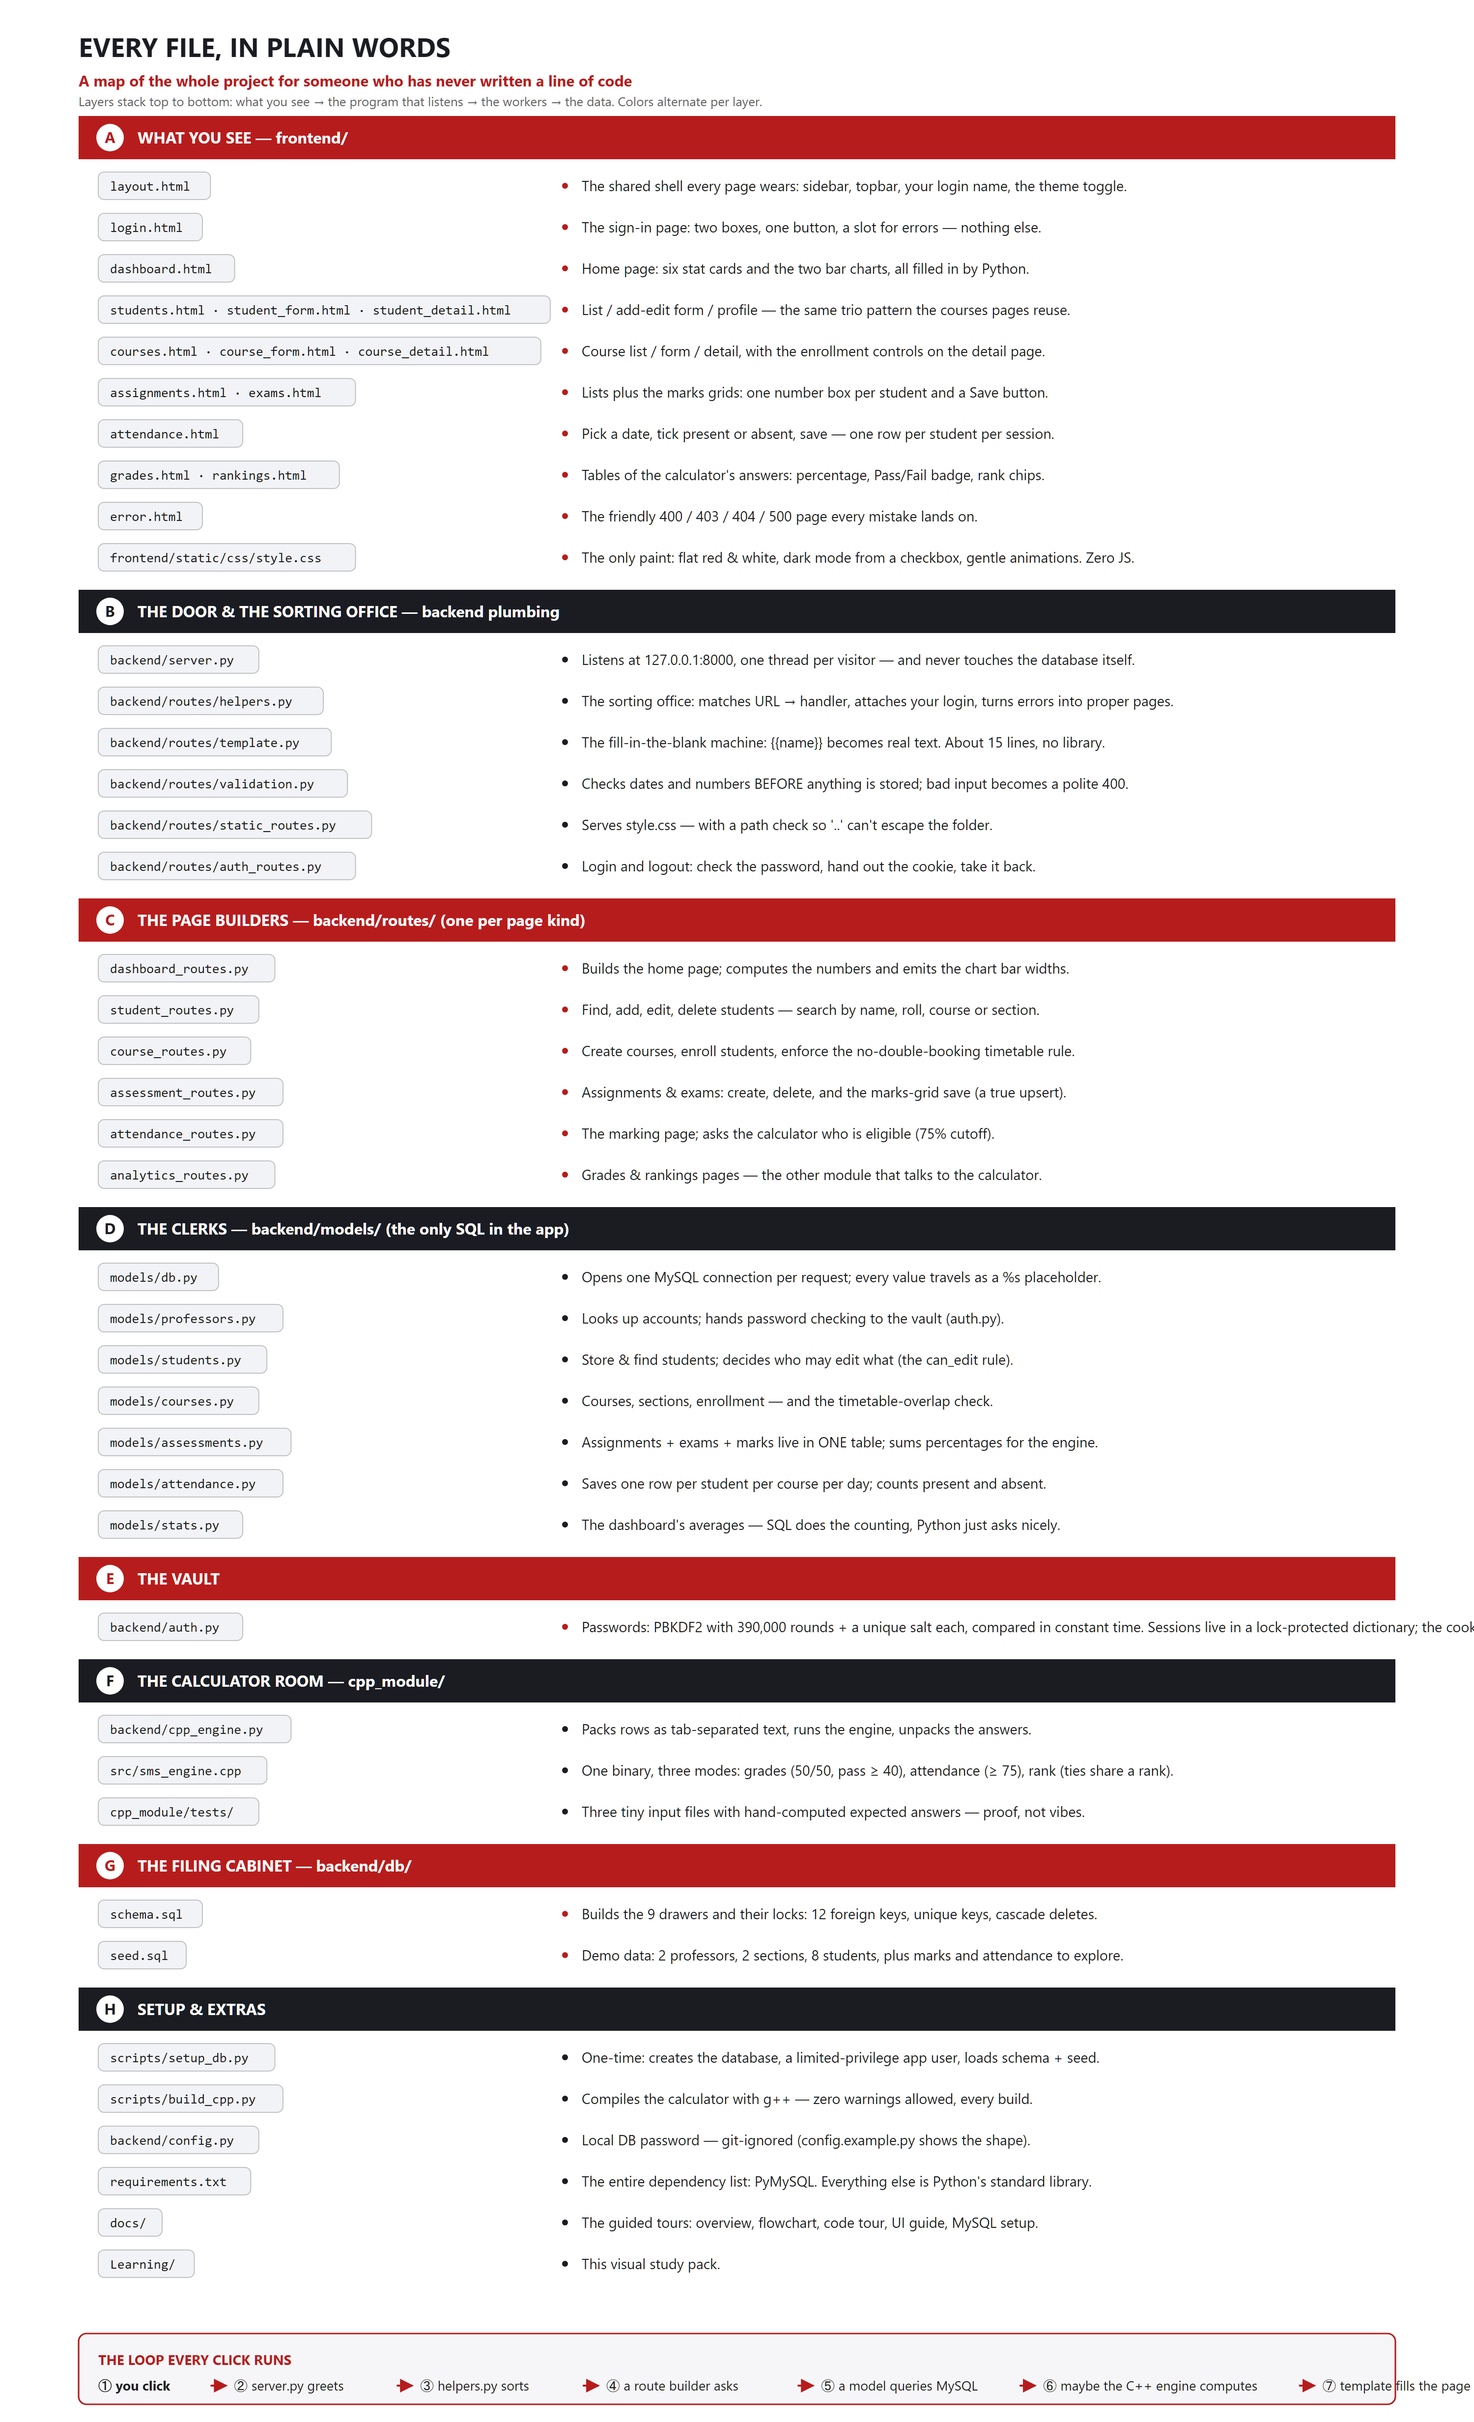
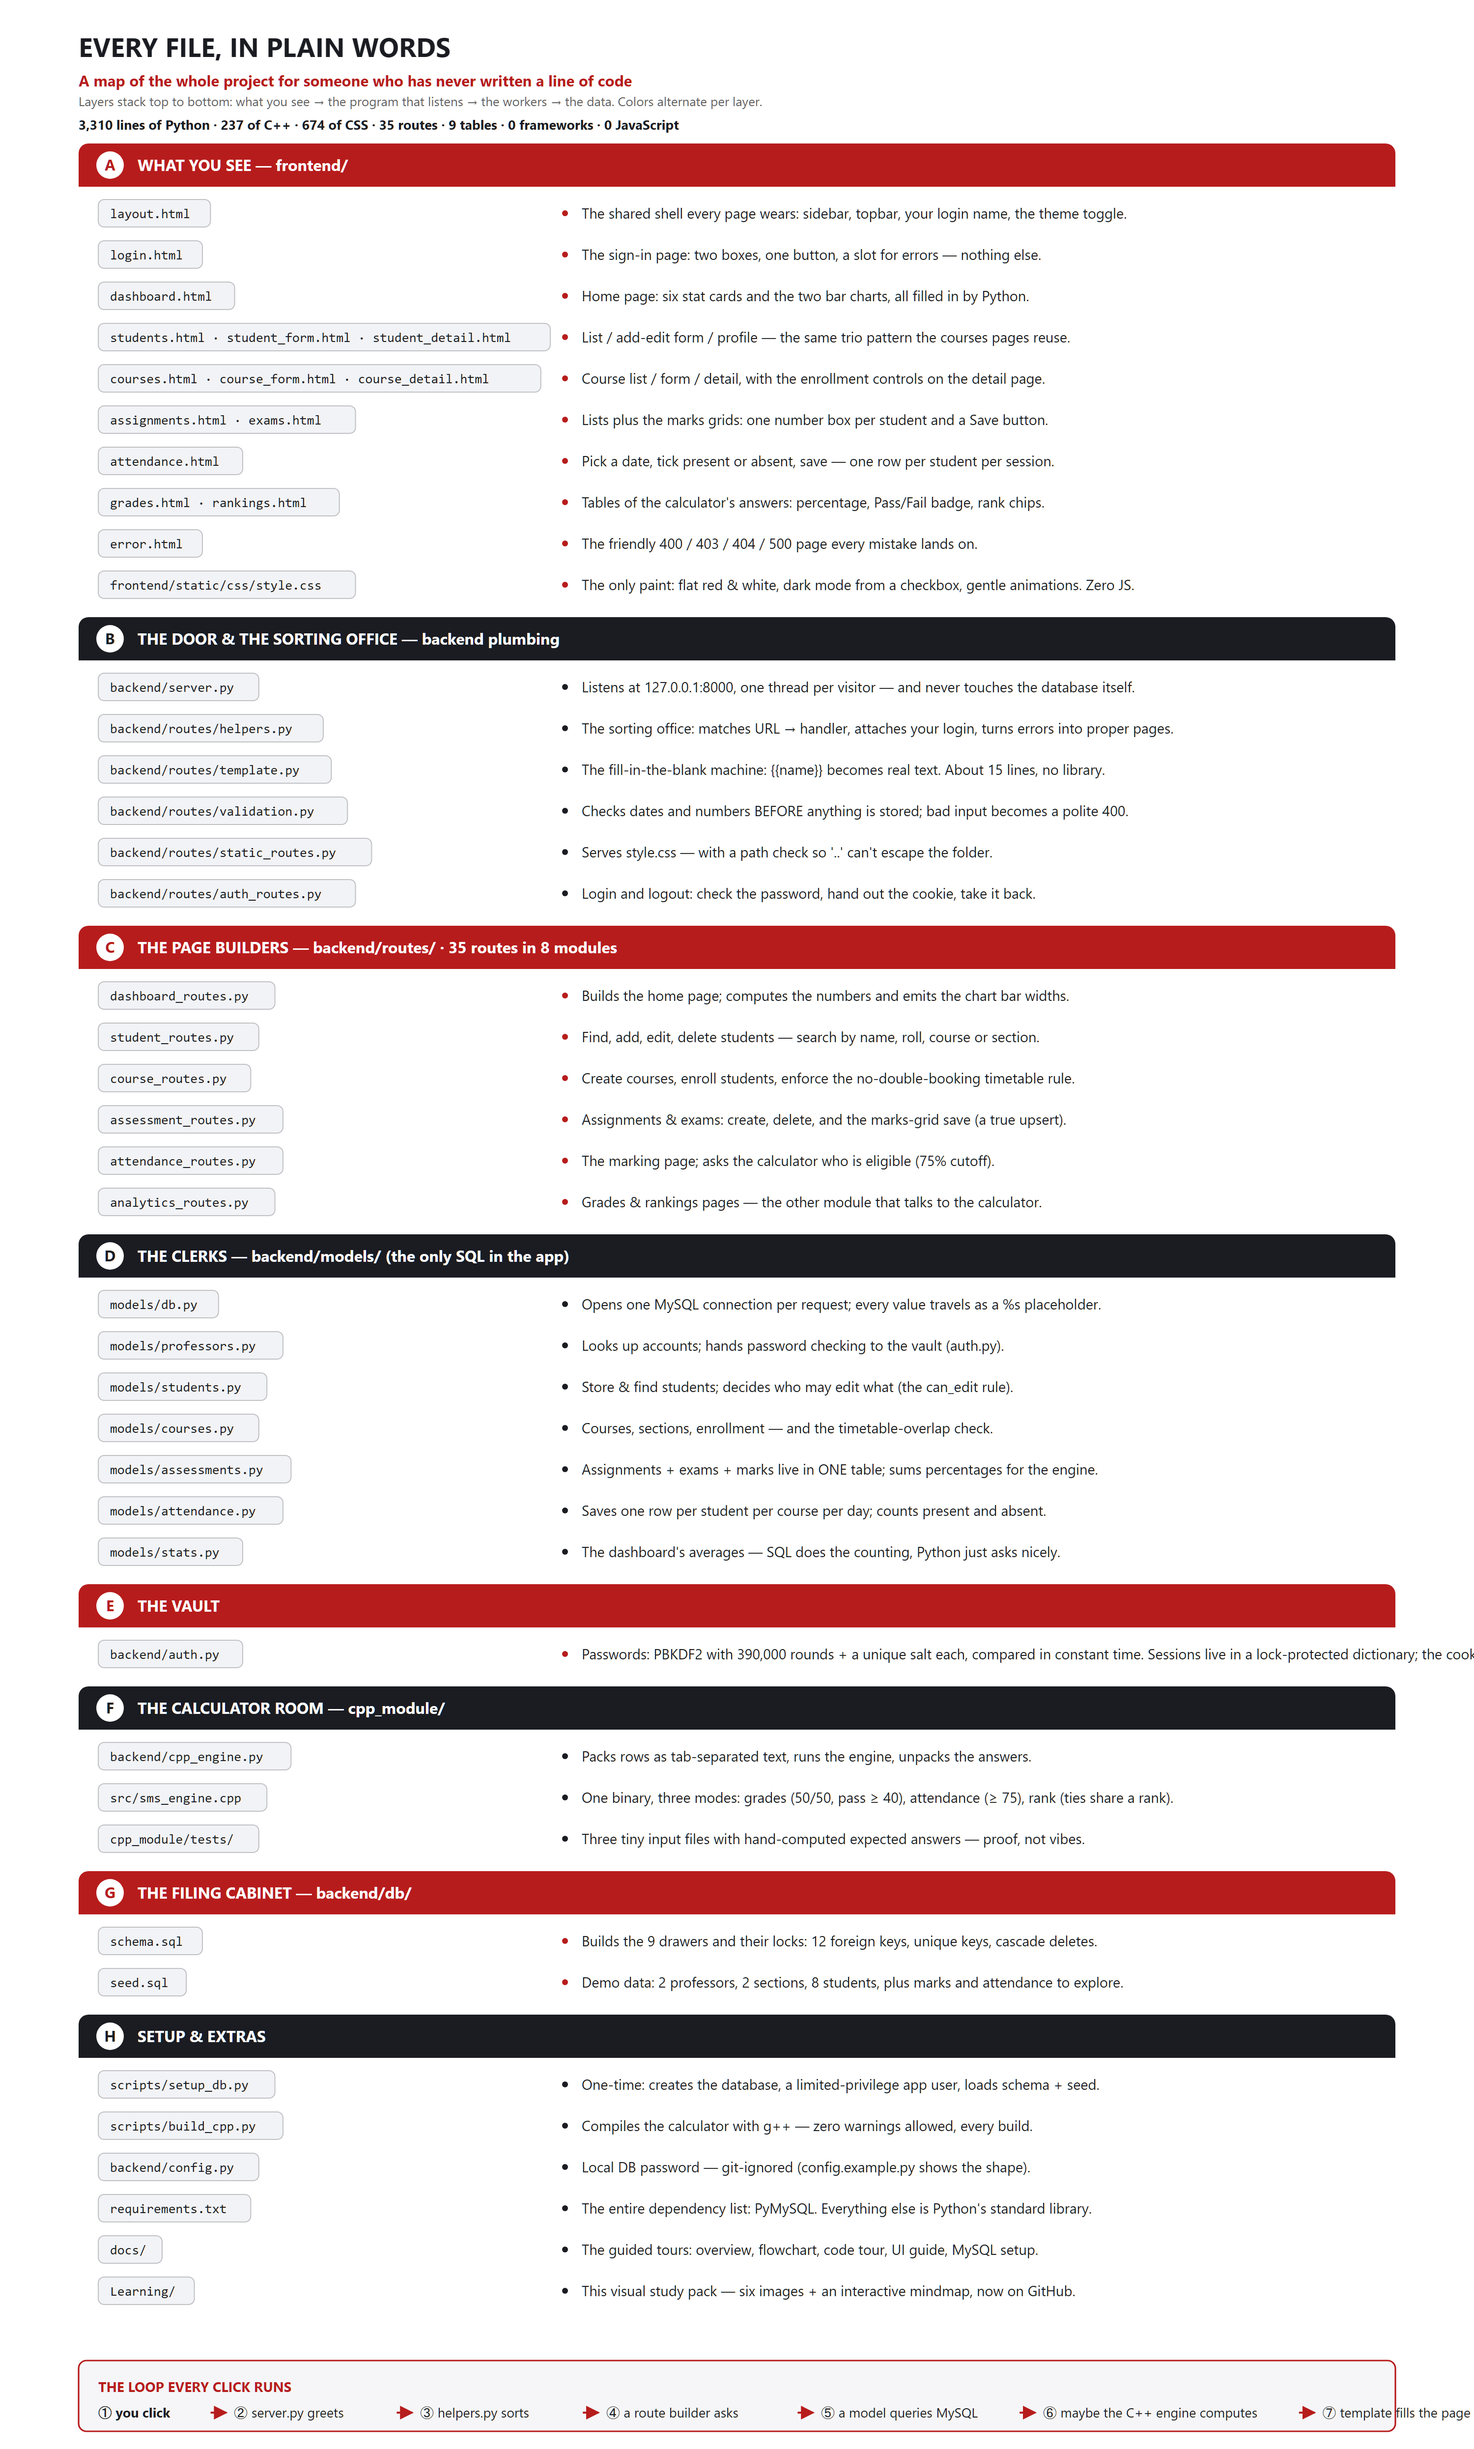
docs: refresh Learning pack - redesign flowchart, update all stats
- 01 flowchart: redesigned as station cards with a facts/math fork after
  the sorting office (facts -> filing cabinet, math -> C++ calculator,
  merge note), dashed one-time-setup strip, nickname-to-file cast strip;
  docs/flow-diagram.png + .svg kept in sync (README embeds the same art)
- 02 ERD: rounded table cards, 9-tables/12-arrows counter chip, new
  HOW TO READ strip (badge legend, PK/FK/U key, cascade note)
- 03 cheat sheet: Python LOC 3,336 -> 3,310 after the dead-defensive-code
  trim; re-rendered PNG + one-page PDF verified clip-free
- 04 code map: stats line (3,310 py / 237 C++ / 674 CSS / 35 routes /
  9 tables / 0 JS), rounded layer bands, 35-routes count, Learning row
- 05 mindmap: red header banner with interaction hints, 35-route count,
  Learning branch added; 06 static re-captured (65 nodes)
- README index: interaction hints + node count updated

All images pixel-verified (dimensions + content + region probes).

🤖 Generated with Codebuff

Changed region(s): [[0.031, 0.0312, 0.961, 0.9375], [0.992, 0.6562, 1.0, 0.6875], [0.155, 0.9688, 0.186, 1.0]]

diff --git a/Learning/05_CODE_MINDMAP_interactive.html b/Learning/05_CODE_MINDMAP_interactive.html
@@ -5,7 +5,14 @@
 <title>Code Mindmap — Student Management System</title>
 <style>
   html, body { margin: 0; padding: 0; height: 100%; background: #ffffff; }
-  #mindmap { width: 100vw; height: 100vh; }
+  body { display: flex; flex-direction: column; }
+  header {
+    background: #b71c1c; color: #fff; padding: 10px 20px;
+    font-family: "Segoe UI", Arial, sans-serif; flex: 0 0 auto;
+  }
+  header h1 { margin: 0; font-size: 18px; letter-spacing: .4px; }
+  header p { margin: 2px 0 0; font-size: 12.5px; opacity: .92; }
+  #mindmap { width: 100vw; height: calc(100vh - 58px); flex: 1; }
   .markmap-node text { font-family: "Segoe UI", Arial, sans-serif; }
 </style>
 <!-- Markmap auto-loader: renders the markdown below as an interactive mindmap.
@@ -13,6 +20,10 @@
 <script src="https://cdn.jsdelivr.net/npm/markmap-autoloader@0.16"></script>
 </head>
 <body>
+<header>
+  <h1>SMS — how the code fits (interactive mindmap)</h1>
+  <p>Click any circle to fold or unfold a branch · scroll to zoom · drag to pan · the static version is 06_CODE_MINDMAP_static.png</p>
+</header>
 <div class="markmap" id="mindmap">
 <script type="text/template">
 # SMS — how the code fits
@@ -45,7 +56,7 @@
 #### PermissionError → 403
 #### NotFound → 404
 
-## 🏗 Page builders — backend/routes/
+## 🏗 Page builders — backend/routes/ · 35 routes in 8 modules
 ### dashboard_routes.py — home page + chart widths
 ### student_routes.py — CRUD + search
 ### course_routes.py — courses + no-double-booking rule
@@ -84,6 +95,7 @@
 ## 🧰 Setup — scripts/
 ### setup_db.py — database + limited app user
 ### build_cpp.py — g++ compile, zero warnings
+### Learning/ — this visual study pack (on GitHub)
 
 ## 🔁 The loop every click runs
 ### ① you click → ② server greets → ③ helpers sorts

diff --git a/Learning/README.md b/Learning/README.md
@@ -9,8 +9,8 @@ programming**. Start at the top; each file stands on its own.
 | 02 | [`02_ERD_WHITEBOARD_9_tables_12_arrows.png`](02_ERD_WHITEBOARD_9_tables_12_arrows.png) | The 9-table database drawn out: every table, all 12 foreign-key arrows color-coded, and the 2-minute drawing method | Practice drawing it from memory |
 | 03 | [`03_VIVA_CHEAT_SHEET.png`](03_VIVA_CHEAT_SHEET.png) | One page: the numbers to memorize, the top 10 answers, the 60-second opener | Read in the corridor before the viva |
 | 04 | [`04_CODE_MAP_every_file_explained.png`](04_CODE_MAP_every_file_explained.png) | **Every file in the project, in plain words** — grouped into 8 layers, from "what you see" down to the database | Open it next to the code |
-| 05 | [`05_CODE_MINDMAP_interactive.html`](05_CODE_MINDMAP_interactive.html) | The whole map as an **interactive mindmap** — zoom, fold, unfold branches | Open in any browser; needs internet on first view (the renderer loads from a CDN) |
-| 06 | [`06_CODE_MINDMAP_static.png`](06_CODE_MINDMAP_static.png) | The same mindmap as a static picture (64 nodes) | View anywhere, including GitHub |
+| 05 | [`05_CODE_MINDMAP_interactive.html`](05_CODE_MINDMAP_interactive.html) | The whole map as an **interactive mindmap** — click circles to fold/unfold, scroll to zoom, drag to pan | Open in any browser; needs internet on first view (the renderer loads from a CDN) |
+| 06 | [`06_CODE_MINDMAP_static.png`](06_CODE_MINDMAP_static.png) | The same mindmap as a static picture (65 nodes) | View anywhere, including GitHub |
 
 ## Suggested order
 
